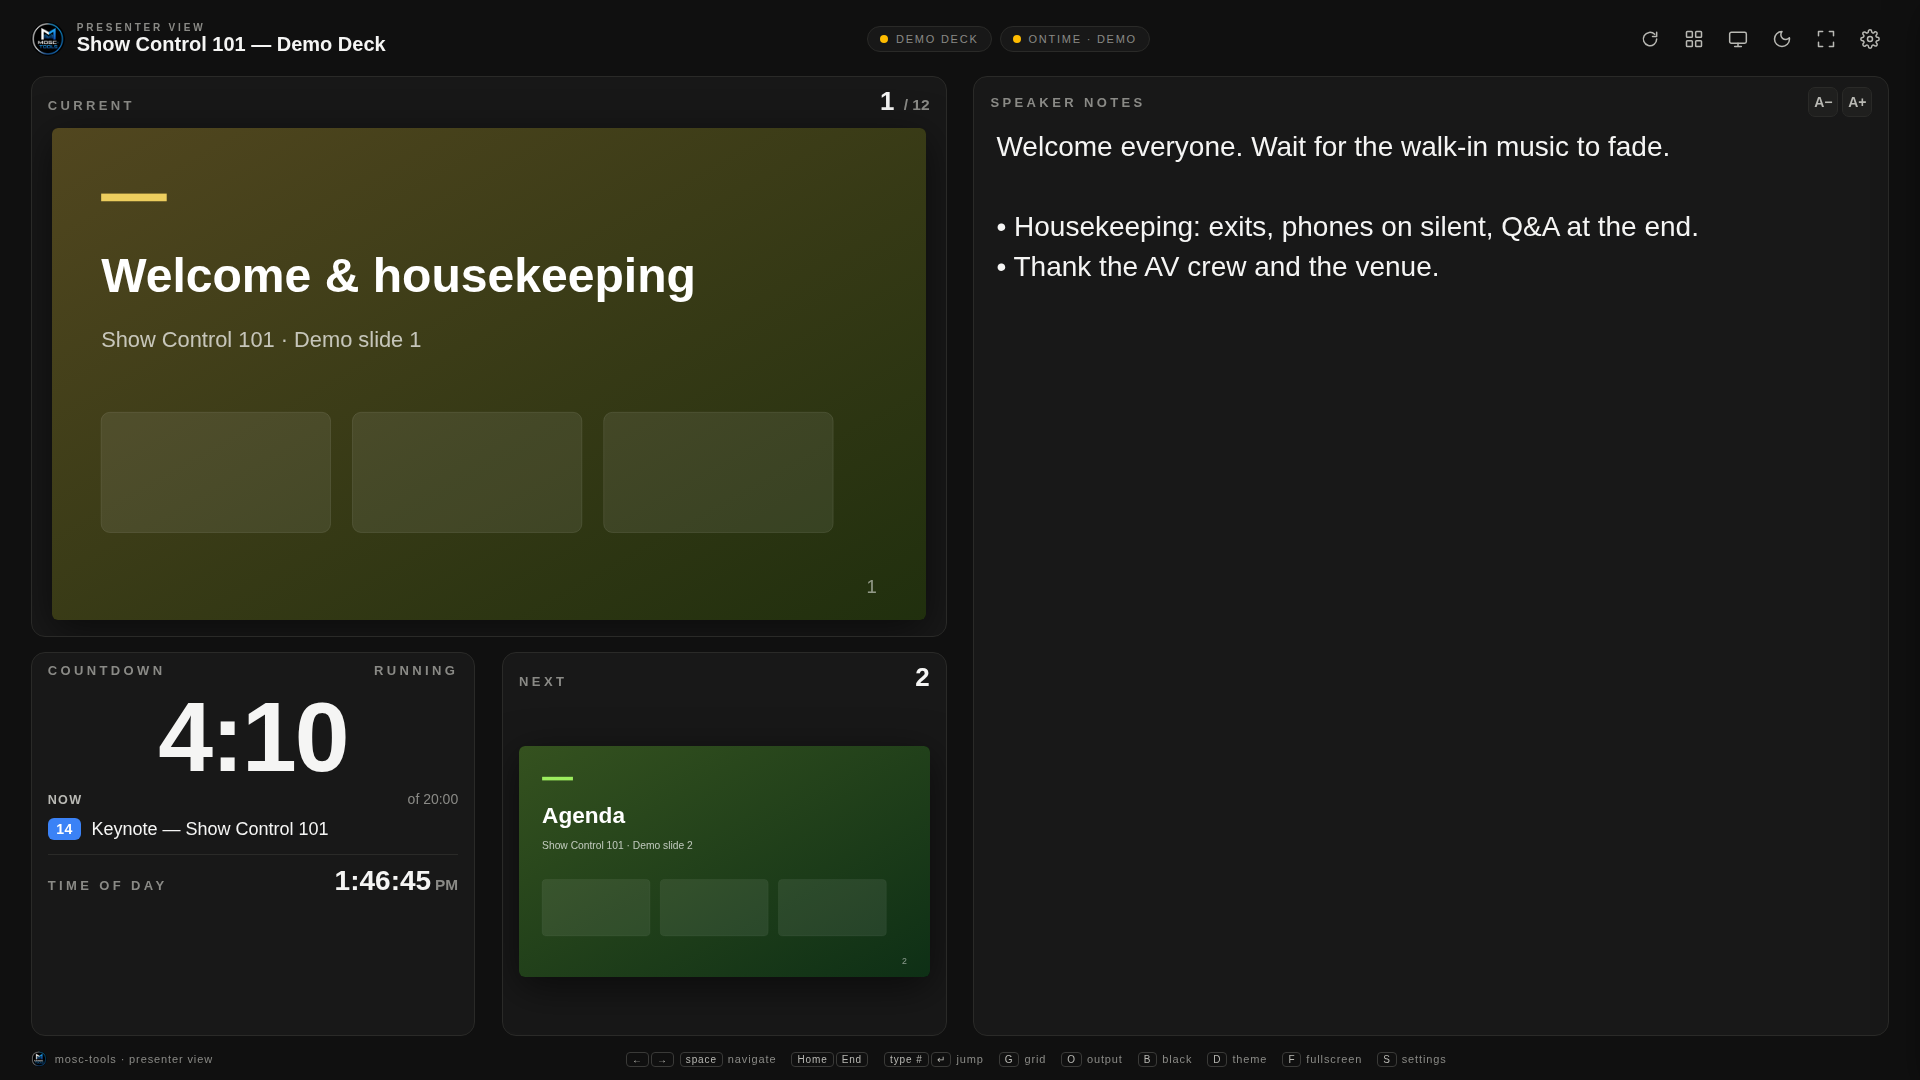
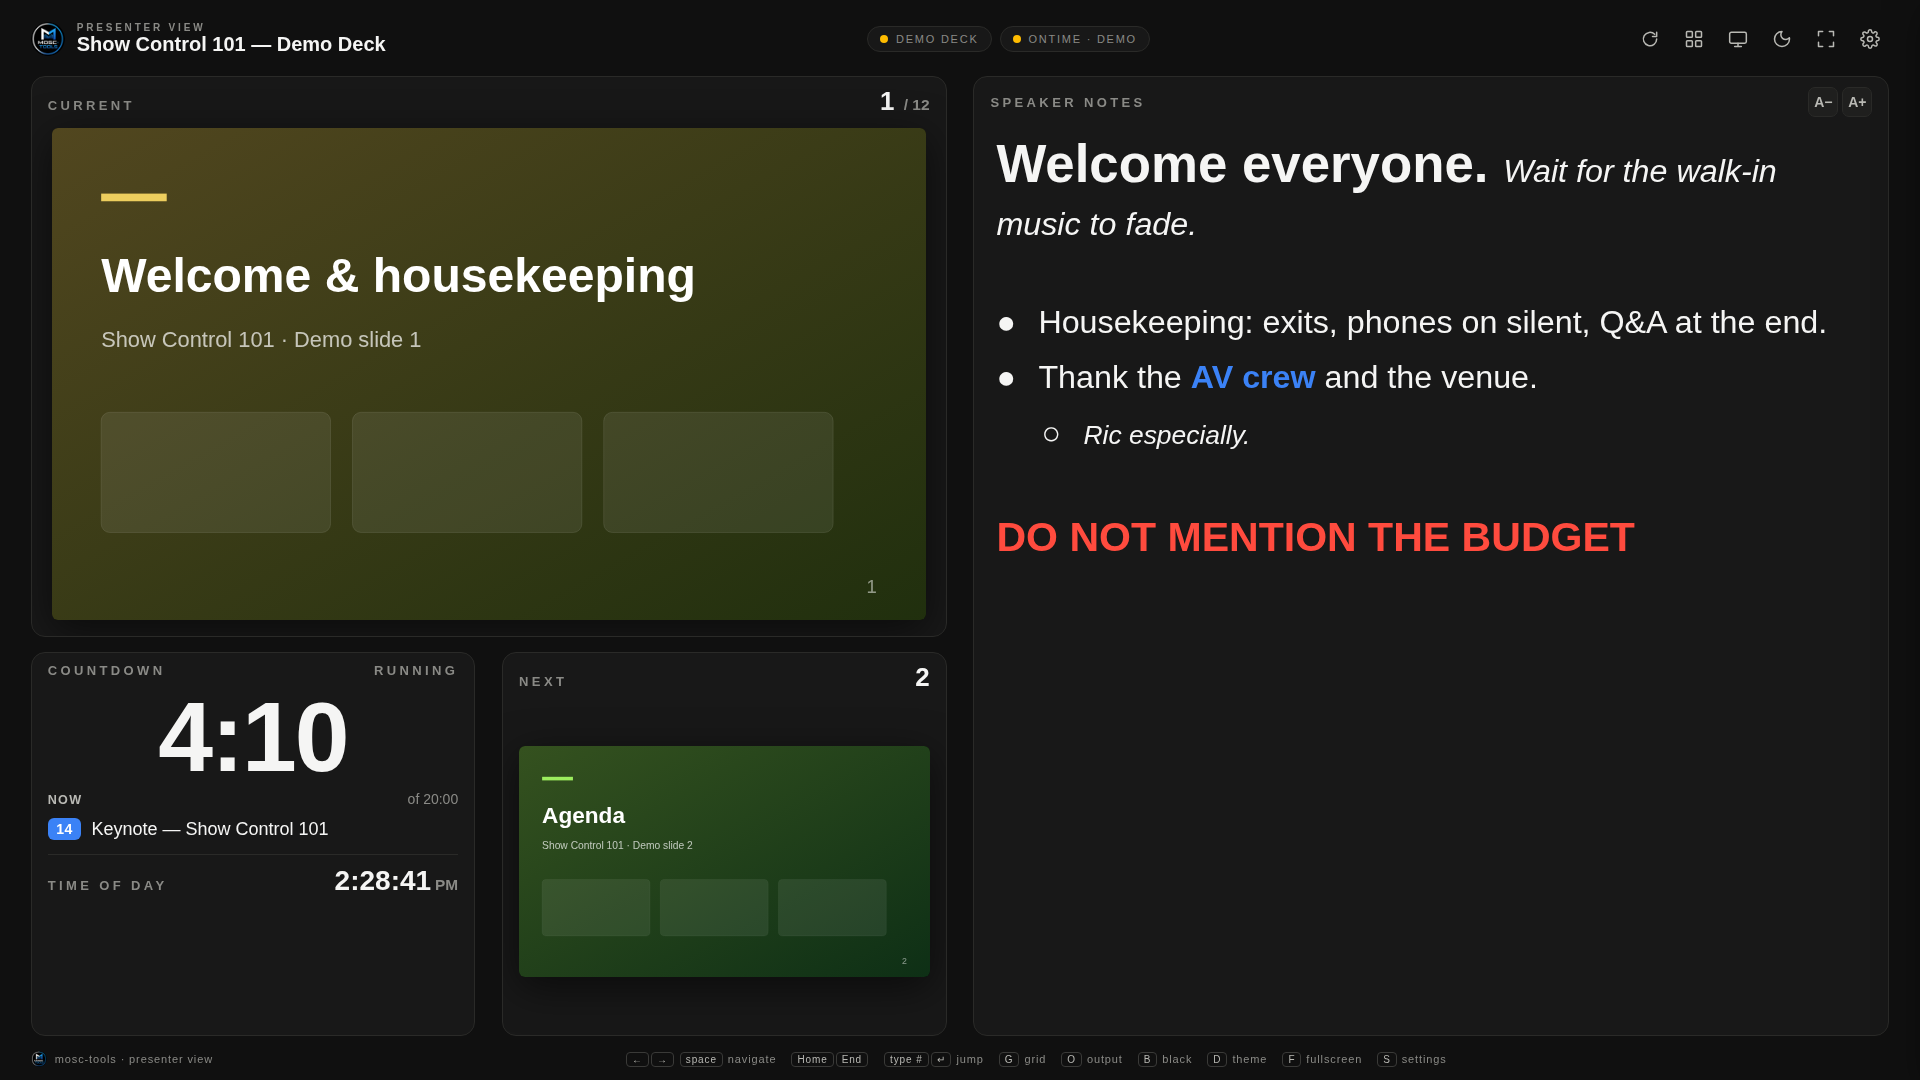
1.2 — speaker notes keep Google Slides formatting; bridge v3

diff --git a/Mosc-tools--Presenter-View.html b/Mosc-tools--Presenter-View.html
@@ -21,7 +21,8 @@
     --danger: #ff4b3e;
     --slide-bg: #000;
     --shadow: 0 10px 40px rgba(0,0,0,.55);
-    --notes-size: 32px;
+    --notes-scale: 2.2;          /* 11 pt in Google → ~32 px here; A−/A+ change this */
+    --notes-base-pt: 11;         /* size used for notes text that has no explicit size set in Google Slides */
   }
   html[data-theme="light"] {
     --bg: #f2f2ef;
@@ -167,8 +168,12 @@
   #notesCard .card-head .ctl { display: flex; align-items: center; gap: 4px; }
   .mini { width: 30px; height: 30px; border-radius: 7px; display: inline-flex; align-items: center; justify-content: center; color: var(--dim-strong); font-size: 14px; font-weight: 700; border: 1px solid var(--border); background: var(--panel-2); }
   .mini:hover { color: var(--fg); border-color: var(--border-strong); }
-  #notes { flex: 1; min-height: 0; overflow: auto; padding: 10px 22px 22px; font-size: var(--notes-size); line-height: 1.42; white-space: pre-wrap; overflow-wrap: break-word; scrollbar-width: thin; scrollbar-color: var(--border-strong) transparent; }
+  #notes { flex: 1; min-height: 0; overflow: auto; padding: 10px 22px 22px; font-size: calc(var(--notes-base-pt) * 1pt * var(--notes-scale)); line-height: 1.42; white-space: pre-wrap; overflow-wrap: break-word; scrollbar-width: thin; scrollbar-color: var(--border-strong) transparent; }
   #notes.empty { color: var(--dim); font-style: normal; }
+  #notes .np { margin: 0 0 .3em; min-height: 1em; }
+  #notes .np.bul { padding-left: 1.3em; }
+  #notes .np .g { display: inline-block; width: 1.3em; margin-left: -1.3em; }
+  #notes .np.blank { height: .7em; }
 
   footer { display: flex; align-items: center; justify-content: space-between; gap: 2vw; font-size: 11px; color: var(--dim); letter-spacing: .08em; }
   footer .brand { display: flex; align-items: center; gap: 8px; }
@@ -415,6 +420,7 @@
     </div>
     <div class="field"><label style="display:flex;align-items:center;gap:10px;text-transform:none;letter-spacing:0;font-size:14px;color:var(--fg);font-weight:400"><input type="checkbox" id="dSkip" checked /> Skip hidden slides</label></div>
     <div class="field"><label style="display:flex;align-items:center;gap:10px;text-transform:none;letter-spacing:0;font-size:14px;color:var(--fg);font-weight:400"><input type="checkbox" id="dCursor" /> Hide mouse cursor after 3 s idle</label></div>
+    <div class="field"><label style="display:flex;align-items:center;gap:10px;text-transform:none;letter-spacing:0;font-size:14px;color:var(--fg);font-weight:400"><input type="checkbox" id="dFmt" checked /> Keep Google Slides notes formatting (sizes, bold, bullets, colours)</label></div>
     <div class="setup-error" id="drawerError"></div>
     <div class="setup-actions">
       <button class="btn" type="submit">Apply &amp; reconnect</button>
@@ -456,6 +462,59 @@
   const LS_UI = 'moscPresenter.ui';
 
   /* ---------- Config ---------- */
+  /* ---------- Speaker notes: keep Google's formatting ---------- */
+  // Turns Slides API textElements (notes BODY placeholder) into paragraphs of styled runs.
+  function richFromEls(els) {
+    const paras = []; let cur = null;
+    const colorOf = (fc) => {
+      const c = fc && fc.opaqueColor && fc.opaqueColor.rgbColor; if (!c) return null;
+      const r = c.red || 0, g = c.green || 0, b = c.blue || 0;
+      if (Math.max(r, g, b) - Math.min(r, g, b) < 0.25) return null;            // greys/black/white: let the theme decide
+      return '#' + [r, g, b].map(v => Math.round(v * 255).toString(16).padStart(2, '0')).join('');
+    };
+    for (const el of els || []) {
+      if (el.paragraphMarker) {
+        const b = el.paragraphMarker.bullet;
+        cur = { g: b ? (b.glyph || '•') : null, lvl: (b && b.nestingLevel) || 0, runs: [] }; paras.push(cur); continue;
+      }
+      const tr = el.textRun || el.autoText; if (!tr) continue;
+      if (!cur) { cur = { g: null, lvl: 0, runs: [] }; paras.push(cur); }
+      const st = tr.style || {};
+      cur.runs.push({ t: tr.content || '', pt: st.fontSize && st.fontSize.magnitude || null, b: !!st.bold, i: !!st.italic, u: !!st.underline, s: !!st.strikethrough, c: colorOf(st.foregroundColor) });
+    }
+    for (const p of paras) { const last = p.runs[p.runs.length - 1]; if (last) last.t = last.t.replace(/\n$/, ''); }
+    while (paras.length && !paras[paras.length - 1].runs.some(r => r.t.trim())) paras.pop();
+    return paras;
+  }
+  function renderNotes(cur) {
+    $notes.innerHTML = ''; $notes.scrollTop = 0;
+    if (!cur) { $notes.textContent = 'End of presentation.'; $notes.classList.add('empty'); return; }
+    const rich = ui.notesFmt ? (cur.rich || (cur.notesEls ? richFromEls(cur.notesEls) : null)) : null;
+    const hasRich = rich && rich.some(p => p.runs.some(r => r.t.trim()));
+    if (!hasRich) {
+      $notes.textContent = cur.notes || 'No notes for this slide.'; $notes.classList.toggle('empty', !cur.notes); return;
+    }
+    $notes.classList.remove('empty');
+    const frag = document.createDocumentFragment();
+    for (const p of rich) {
+      const el = document.createElement('p'); el.className = 'np' + (p.g ? ' bul' : '');
+      if (p.lvl) el.style.marginLeft = (p.lvl * 1.4) + 'em';
+      if (!p.runs.some(r => r.t.trim())) { el.className += ' blank'; frag.appendChild(el); continue; }
+      if (p.g) { const g = document.createElement('span'); g.className = 'g'; g.textContent = p.g; el.appendChild(g); }
+      for (const r of p.runs) {
+        const sp = document.createElement('span'); sp.textContent = r.t;
+        if (r.pt) sp.style.fontSize = `calc(${r.pt}pt * var(--notes-scale))`;
+        if (r.b) sp.style.fontWeight = '700';
+        if (r.i) sp.style.fontStyle = 'italic';
+        const deco = [r.u ? 'underline' : '', r.s ? 'line-through' : ''].filter(Boolean).join(' '); if (deco) sp.style.textDecoration = deco;
+        if (r.c) sp.style.color = r.c;
+        el.appendChild(sp);
+      }
+      frag.appendChild(el);
+    }
+    $notes.appendChild(frag);
+  }
+
   const DEFAULTS = { slides: '', ontime: '', mode: 'bridge', bridge: '', token: '', key: '', timer: 'main', skip: true, cursor: false };
   let cfg = { ...DEFAULTS };
   try { Object.assign(cfg, JSON.parse(localStorage.getItem(LS_KEY) || '{}')); } catch { /* ignore */ }
@@ -464,8 +523,11 @@
   if (params.get('bridge')) cfg.mode = 'bridge';
   const DEMO = params.get('demo') === '1';
 
-  let ui = { theme: 'dark', notesSize: 32, notesH: 40 };
+  let ui = { theme: 'dark', notesScale: 2.2, notesH: 40, notesFmt: true };
   try { Object.assign(ui, JSON.parse(localStorage.getItem(LS_UI) || '{}')); } catch { /* ignore */ }
+  if (ui.notesSize && !ui.notesScaleMigrated) { ui.notesScale = +(ui.notesSize / 14.67).toFixed(3); ui.notesScaleMigrated = true; delete ui.notesSize; }
+  if (typeof ui.notesFmt !== 'boolean') ui.notesFmt = true;
+  if (!(ui.notesScale > 0)) ui.notesScale = 2.2;
   if (params.get('theme') === 'light' || params.get('theme') === 'dark') ui.theme = params.get('theme');
 
   function saveCfg() { try { localStorage.setItem(LS_KEY, JSON.stringify(cfg)); } catch { /* private mode */ } }
@@ -488,7 +550,7 @@
     $('iconTheme').innerHTML = ui.theme === 'dark'
       ? '<path d="M12 3a9 9 0 1 0 9 9c0-.5 0-1-.1-1.4A5.5 5.5 0 0 1 12 3z"/>'
       : '<circle cx="12" cy="12" r="4"/><path d="M12 2v2M12 20v2M4.9 4.9l1.4 1.4M17.7 17.7l1.4 1.4M2 12h2M20 12h2M4.9 19.1l1.4-1.4M17.7 6.3l1.4-1.4"/>';
-    document.documentElement.style.setProperty('--notes-size', ui.notesSize + 'px');
+    document.documentElement.style.setProperty('--notes-scale', String(ui.notesScale));
     document.documentElement.style.setProperty('--notes-h', ui.notesH + '%');
   }
   function toggleTheme() { ui.theme = ui.theme === 'dark' ? 'light' : 'dark'; saveUi(); applyTheme(); }
@@ -586,17 +648,18 @@
   async function fetchDeckMeta() {
     if (DEMO) return demoDeck();
     if (cfg.mode === 'key') {
-      const fields = 'title,revisionId,pageSize,slides(objectId,slideProperties(isSkipped,notesPage(pageElements(shape(placeholder(type),text(textElements(textRun(content))))))))';
+      const fields = 'title,revisionId,pageSize,slides(objectId,slideProperties(isSkipped,notesPage(pageElements(shape(placeholder(type),text(textElements(paragraphMarker(bullet(glyph,nestingLevel)),textRun(content,style(bold,italic,underline,strikethrough,fontSize,foregroundColor)),autoText(content,style(bold,italic,fontSize)))))))))';
       const j = await getJson(`https://slides.googleapis.com/v1/presentations/${deck.id}?key=${encodeURIComponent(cfg.key.trim())}&fields=${encodeURIComponent(fields)}`);
       const slides = (j.slides || []).map((s, i) => {
-        let notes = '';
+        let notes = '', notesEls = null;
         const els = s.slideProperties?.notesPage?.pageElements || [];
         for (const el of els) {
           if (el.shape?.placeholder?.type === 'BODY') {
-            notes = (el.shape.text?.textElements || []).map(t => t.textRun?.content || '').join('');
+            notesEls = el.shape.text?.textElements || [];
+            notes = notesEls.map(t => t.textRun?.content || '').join('');
           }
         }
-        return { id: s.objectId, index: i + 1, notes: notes.replace(/\s+$/, ''), skipped: !!s.slideProperties?.isSkipped };
+        return { id: s.objectId, index: i + 1, notes: notes.replace(/\s+$/, ''), notesEls, skipped: !!s.slideProperties?.isSkipped };
       });
       const w = j.pageSize?.width?.magnitude, h = j.pageSize?.height?.magnitude;
       return { title: j.title || 'Untitled', revisionId: j.revisionId, slides, ar: (w && h) ? w / h : 16 / 9 };
@@ -740,10 +803,7 @@
     const total = deck.slides.length;
     $curNum.innerHTML = cur ? `${cur.index} <small>/ ${total}</small>` : `End <small>/ ${total}</small>`;
     $nextNum.textContent = nxt ? nxt.index : (cur ? 'End' : '—');
-    const notes = cur ? cur.notes : '';
-    $notes.textContent = notes || (cur ? 'No notes for this slide.' : 'End of presentation.');
-    $notes.classList.toggle('empty', !notes);
-    $notes.scrollTop = 0;
+    renderNotes(cur);
     if (!$curSlide.classList.contains('err')) $curSlide.querySelector('.ph span').textContent = cur ? 'No image' : 'End of deck';
     $nextSlide.querySelector('.ph span').textContent = 'End of deck';
     updateOutput();
@@ -958,6 +1018,16 @@
   ];
   function demoDeck() {
     const slides = DEMO_TITLES.map((t, i) => ({ id: 'demo' + (i + 1), index: i + 1, notes: DEMO_NOTES[i], skipped: i === 8 }));
+    // Slide 1 shows how Google's own formatting comes through (sizes are relative to the deck's notes)
+    slides[0].rich = [
+      { g: null, lvl: 0, runs: [{ t: 'Welcome everyone. ', pt: 18, b: true }, { t: 'Wait for the walk-in music to fade.', pt: 11, i: true }] },
+      { g: null, lvl: 0, runs: [] },
+      { g: '●', lvl: 0, runs: [{ t: 'Housekeeping: exits, phones on silent, Q&A at the end.', pt: 11 }] },
+      { g: '●', lvl: 0, runs: [{ t: 'Thank the ', pt: 11 }, { t: 'AV crew', pt: 11, b: true, c: '#3b82f6' }, { t: ' and the venue.', pt: 11 }] },
+      { g: '○', lvl: 1, runs: [{ t: 'Ric especially.', pt: 9, i: true }] },
+      { g: null, lvl: 0, runs: [] },
+      { g: null, lvl: 0, runs: [{ t: 'DO NOT MENTION THE BUDGET', pt: 14, b: true, c: '#ff4b3e' }] }
+    ];
     return Promise.resolve({ title: 'Show Control 101 — Demo Deck', revisionId: 'demo', slides, ar: 16 / 9 });
   }
   function demoThumb(id) {
@@ -1019,7 +1089,7 @@
   window.addEventListener('hashchange', applyHashStart);
 
   function toggleFullscreen() { document.fullscreenElement ? document.exitFullscreen() : document.documentElement.requestFullscreen().catch(() => toast('Fullscreen not allowed here', true)); }
-  function notesSize(d) { ui.notesSize = Math.max(14, Math.min(64, ui.notesSize + d)); saveUi(); applyTheme(); }
+  function notesSize(d) { ui.notesScale = Math.max(0.6, Math.min(8, +(ui.notesScale * (d > 0 ? 1.12 : 1 / 1.12)).toFixed(3))); saveUi(); applyTheme(); toast(`Notes ${Math.round(ui.notesScale / 2.2 * 100)}%`); }
 
   $('btnPrev').addEventListener('click', prev); $('btnNext').addEventListener('click', next);
   $('btnGrid').addEventListener('click', openGrid); $('gridClose').addEventListener('click', closeGrid);
@@ -1062,13 +1132,13 @@
     $(P + 'Slides').value = cfg.slides; $(P + 'Ontime').value = cfg.ontime; $(P + 'Timer').value = cfg.timer;
     $(P + 'Bridge').value = cfg.bridge; $(P + 'Token').value = cfg.token; $(P + 'Key').value = cfg.key; $(P + 'Skip').checked = !!cfg.skip;
     segSet($(P + 'Mode'), cfg.mode, $(P === 'f' ? 'bridgeFields' : 'dBridgeFields'), $(P === 'f' ? 'keyFields' : 'dKeyFields'));
-    if (P === 'd') $('dCursor').checked = !!cfg.cursor;
+    if (P === 'd') { $('dCursor').checked = !!cfg.cursor; $('dFmt').checked = !!ui.notesFmt; }
   }
   function readForm(prefix, $err) {
     const P = prefix;
     const c = { ...cfg, slides: $(P + 'Slides').value.trim(), ontime: $(P + 'Ontime').value.trim(), timer: $(P + 'Timer').value, mode: segValue($(P + 'Mode')),
       bridge: $(P + 'Bridge').value.trim(), token: $(P + 'Token').value.trim(), key: $(P + 'Key').value.trim(), skip: $(P + 'Skip').checked };
-    if (P === 'd') c.cursor = $('dCursor').checked;
+    if (P === 'd') { c.cursor = $('dCursor').checked; if (ui.notesFmt !== $('dFmt').checked) { ui.notesFmt = $('dFmt').checked; saveUi(); render(); } }
     const d = extractDeckId(c.slides);
     if (d.error) return fail($err, d.error);
     if (c.mode === 'bridge') {

diff --git a/README.md b/README.md
@@ -19,7 +19,7 @@ Download: grab `Mosc-tools--Presenter-View.html` from this repo (Code → Downlo
 
 - **Current slide** (large, 1600 px image) with slide number / total
 - **Next slide** thumbnail with its number — click it to advance
-- **Speaker notes** for the current slide, resizable (`A−` / `A+` or `−` / `+`)
+- **Speaker notes** for the current slide, with Google's formatting kept — relative font sizes, bold/italic/underline, bullets and indents, coloured text. `A−` / `A+` (or `−` / `+`) scale everything together, so an 18 pt heading stays bigger than 11 pt body text. Turn formatting off in Settings if you'd rather have plain text.
 - **Ontime countdown** — main timer of the running cue, or AUX 1/2/3. Amber under 3 min, red under 1, flashing past zero.
   Shows the running cue (number chip in its Ontime colour), "of 20:00" duration, Ontime's *message to stage*, and the show clock.
 - **Dark / light** toggle (`D` or the moon/sun button), remembered per browser
@@ -118,7 +118,7 @@ Mosc-tools--Presenter-View.html?slides=<link or id>&ontime=10.1.1.100:4001&bridg
 | `B` | Black the program output |
 | `D` | Dark / light |
 | `F` (or double-click the slide) | Fullscreen |
-| `+` / `−` | Notes bigger / smaller |
+| `+` / `−` | Notes bigger / smaller (scales Google's sizes proportionally) |
 | `R` | Reload the deck now |
 | `S` | Settings |
 | `Esc` | Close grid / settings |
@@ -145,6 +145,8 @@ Quick check of the bridge in a browser tab: `…/exec?action=ping&token=YOURTOKE
 - Thumbnail URLs are Google-signed and public for ~30 minutes to anyone holding the URL — normal for the Slides API.
 
 ## Version history
+
+- **1.2** — speaker notes keep Google Slides formatting (sizes, bold/italic, bullets, colours); A−/A+ scale proportionally. Bridge v3 (redeploy a new version to get formatted notes).
 
 - **1.1** — speaker notes moved to the full right half; bridge v2 reads the whole deck in one Slides API call (fixes timeouts on big decks); clearer on-screen errors with auto-retry.
 - **1.0** — first release: current/next/notes, Ontime main + AUX timers, dark/light, bridge + API-key access, grid, program output, external sync hook.
